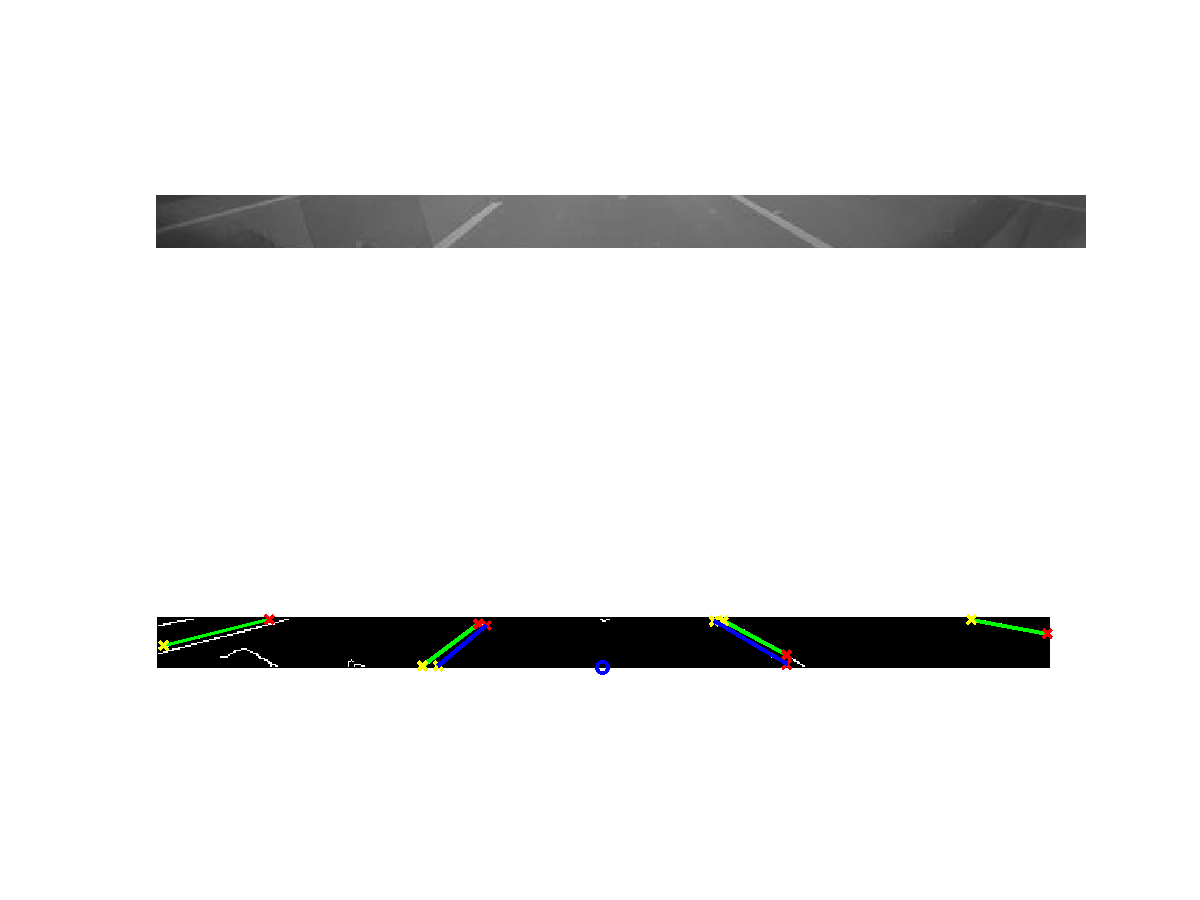
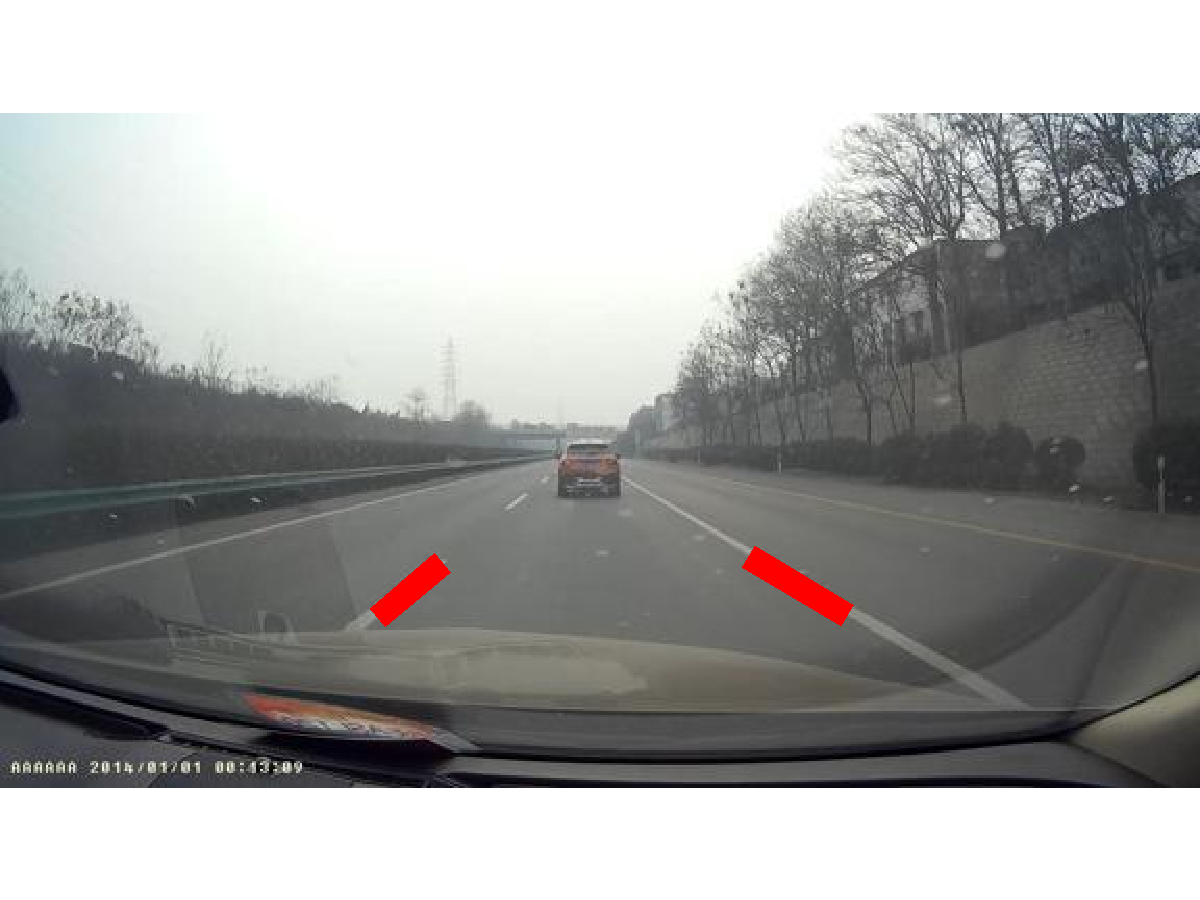
plot the lane in the original image

diff --git a/main.m b/main.m
@@ -1,5 +1,5 @@
 clear;clc;
-ImgNo = 07;
+ImgNo = 08;
 % The only input parameter is the image number.
 % However, the parameters depend on the image we choose.
 %%%%%%%%%%%%%%%%%%%%%%%%%%%%%%%%%%
@@ -126,27 +126,23 @@ end
 ImgPath = strcat('./img/', sprintf('%02d', ImgNo));
 ImgPath = strcat(ImgPath, '.jpg');
 Img_RGB = imread(ImgPath);
-Img_Size = size(Img_RGB);
 % RGB to Gray
 Img_Gray = rgb2gray(Img_RGB);
-% Crop the image
-ImgTarget = Img_Gray(round(Img_Size(1)*ScaleL):round(Img_Size(1)*ScaleH), :, :);
 % Filter pixels
-I = ImgTarget(1:PixelGap:end, 1:PixelGap:end);
+ICoarse_Gray = Img_Gray(1:PixelGap:end, 1:PixelGap:end);
+% Crop the image
+Img_Size = size(ICoarse_Gray);
+ICrop_Gray = ICoarse_Gray(round(Img_Size(1)*ScaleL):round(Img_Size(1)*ScaleH), :);
+I = ICrop_Gray;
+
 figure
-PlotRowN = 2;
-PlotColN = 1;
-subplot(PlotRowN,PlotColN,1);
-imshow(I);
+imshow(Img_RGB);
 
 BW = edge(I, 'canny', Thresh_Edge);
-subplot(PlotRowN,PlotColN,2); hold on;
-imshow(BW);
 % Plot the location of the observer.
 BW_Size = size(BW);
 PtsCenterX = round(BW_Size(2)/2);
 PtsCenterY = BW_Size(1);
-plot(PtsCenterX, PtsCenterY, 'o','LineWidth',2,'Color','blue');
 
 % Hough transform
 [H, theta, rho] = hough(BW, ...
@@ -177,10 +173,10 @@ heights = zeros(length(lines), 1);
 
 for k = 1:length(lines)
     EndPts(k,:,:) = [lines(k).point1; lines(k).point2];
-    plot(EndPts(k,:,1),EndPts(k,:,2),'LineWidth',2,'Color','green');
+    % plot(EndPts(k,:,1),EndPts(k,:,2),'LineWidth',2,'Color','green');
     % Plot beginnings and ends of lines
-    plot(EndPts(k,1,1),EndPts(k,1,2),'x','LineWidth',2,'Color','yellow');
-    plot(EndPts(k,2,1),EndPts(k,2,2),'x','LineWidth',2,'Color','red');
+    % plot(EndPts(k,1,1),EndPts(k,1,2),'x','LineWidth',2,'Color','yellow');
+    % plot(EndPts(k,2,1),EndPts(k,2,2),'x','LineWidth',2,'Color','red');
     c = [EndPts(k,1,1)-EndPts(k,2,1), EndPts(k,1,2)-EndPts(k,2,2)];
     c_mag = sqrt((c(1))^2 + (c(2))^2);
     a = [EndPts(k,1,1)-PtsCenterX, EndPts(k,1,2)-PtsCenterY];
@@ -190,11 +186,6 @@ for k = 1:length(lines)
     angles_ac(k) = acos(dot(a, c) / (a_mag * c_mag));
     angles_hor(k) = atan(c(2)/c(1));
     heights(k) = a_mag * sin(angles_ac(k));
-%     disp(k)
-%     disp(lines_length(k))
-%     disp(angles_hor(k) / pi * 180)
-%     disp(heights(k))
-%     pause
 end
 
 % Divide the whole series of lines into 2 classes, i.e. Left and Right, in
@@ -204,11 +195,11 @@ anglesR_Ind = find(angles_hor*180/pi > 0);
 [LineL_height, LineL_Ind] = min(heights(anglesL_Ind));
 [LineR_height, LineR_Ind] = min(heights(anglesR_Ind));
 k = anglesL_Ind(LineL_Ind);
-plot(EndPts(k,:,1),EndPts(k,:,2),'LineWidth',2,'Color','blue');
+hold on; plot(EndPts(k,:,1)*PixelGap,(EndPts(k,:,2)+round(Img_Size(1)*ScaleL))*PixelGap,'LineWidth',12,'Color','red');
 disp('Angle of the left line')
 disp(angles_hor(k)*180/pi);
 k = anglesR_Ind(LineR_Ind);
-plot(EndPts(k,:,1),EndPts(k,:,2),'LineWidth',2,'Color','blue');
+hold on; plot(EndPts(k,:,1)*PixelGap,(EndPts(k,:,2)+round(Img_Size(1)*ScaleL))*PixelGap,'LineWidth',12,'Color','red');
 disp('Angle of the right line')
 disp(angles_hor(k)*180/pi);
 
